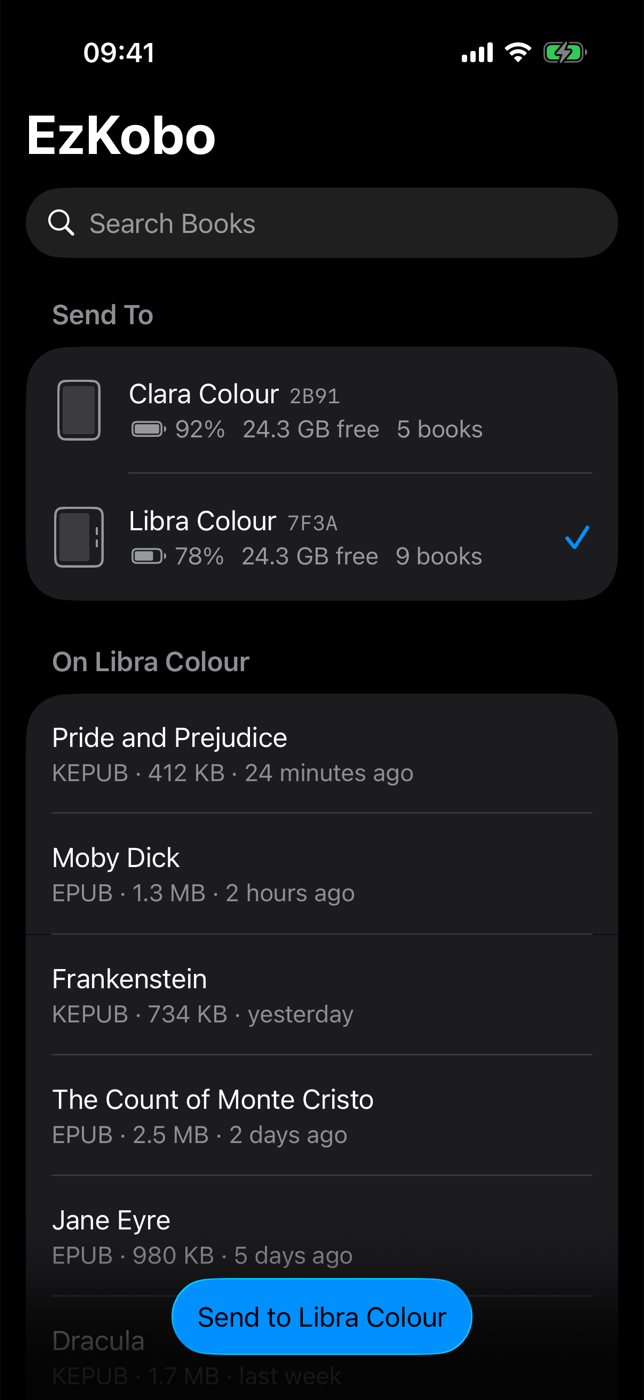
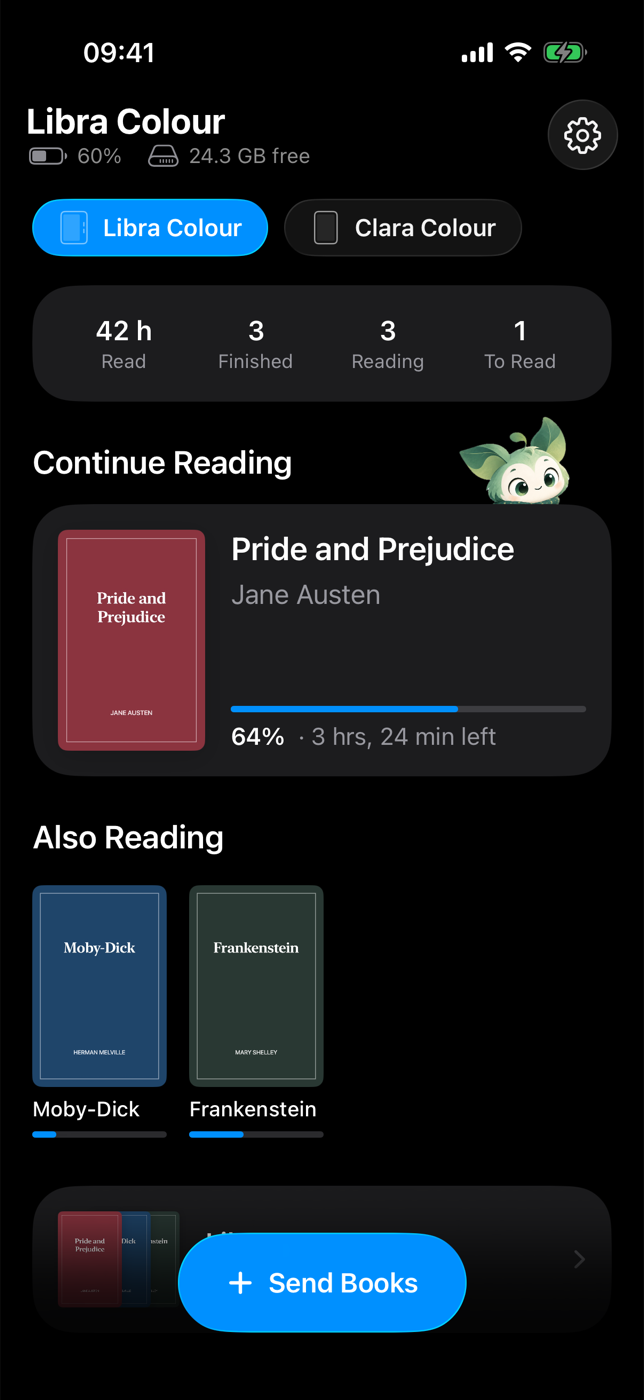
docs: new screenshots and features in the README

diff --git a/README.md b/README.md
@@ -23,19 +23,20 @@ already have:
 
 - **It just shows up.** Your Kobos appear in the app on their own, like a
   printer on your network. Nothing to pair, no IP addresses.
-- **Every Kobo, at a glance.** Model, battery, free space and book count, so
-  you pick the right one when there's more than one in the house.
+- **Every Kobo, at a glance.** Battery, free space and reading stats. Name
+  each Kobo and switch between them with one tap.
 - **Send from anywhere.** From the app, or the Share sheet in Files, Safari,
   Mail and other apps.
 - **Books arrive ready to read.** EPUBs are converted to Kobo's own KEPUB
   format, messy titles and authors are cleaned up (missing details and covers
-  are looked up online), and files are named "Author - Title".
+  are looked up online), files are named "Author - Title", and the book shows
+  up in your Kobo library by itself.
 - **Your library in your pocket.** Browse, search and delete books, with real
   titles, authors and reading progress, and see which books haven't been
   imported yet.
 - **Your reading, at a glance.** What you're reading now with covers and time
-  left, reading stats, and every book's details, highlights and notes (copy
-  or share them).
+  left, reading stats, and every book's details, highlights and notes, with
+  where each sits in the book (copy or share them). Hide books you've put down.
 - **Private by design.** Books go phone → your Wi‑Fi → Kobo, never through a
   cloud. The optional details lookup sends only a book's title and author, to
   the sources you pick: Apple Books, Open Library, Google Books or Hardcover.
@@ -44,7 +45,7 @@ already have:
 - **No app? Use a browser.** Every Kobo also serves the same view at
   `http://kobo-xxxx.local`, for Android phones and laptops.
 - **Plays nicely with mods.** Installs alongside NickelMenu, NickelHook mods
-  and KOReader, and adds NickelMenu for you if it's missing.
+  and KOReader, and adds NickelMenu and NickelDBus for you if they're missing.
 
 ### Send from any app
 
@@ -155,10 +156,12 @@ on the Kobo, so they also apply to the Share sheet and the browser page.
 
 | Setting | Default | What it does |
 |---|---|---|
+| Name | The model | What the app calls this Kobo, e.g. "Atom's Libra" |
 | Convert to KEPUB | On | Converts EPUBs to Kobo's KEPUB format |
 | Fix Missing Details | On | When a book's title or author is missing or messy (or it has no cover), looks it up online. Sends the title and author to the sources below |
 | Details Sources | Apple Books, Open Library, Google Books | Which services to ask, in what order (drag to reorder). Google Books works best with your own API key; Hardcover needs a token |
 | Rename as Author – Title | On | Names files "Author - Title.kepub.epub" |
+| Hidden from Reading | None | Books hidden from Continue Reading (long-press a book › Hide from Reading); they stay on the Kobo |
 | PIN | Off | Requires a 4–8 digit PIN to see, send or delete books |
 
 ## Compatibility with other mods
